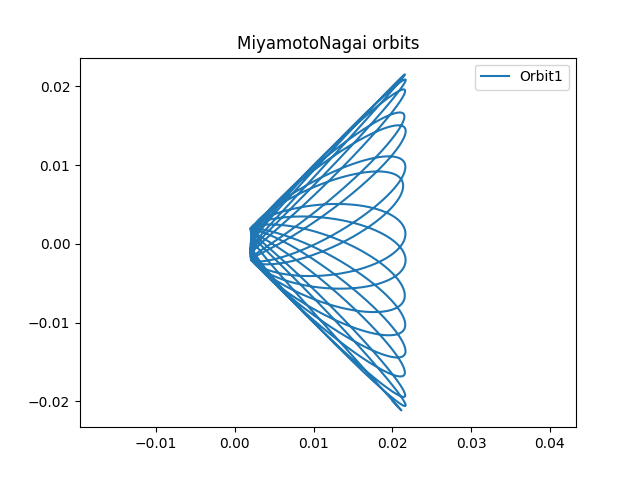
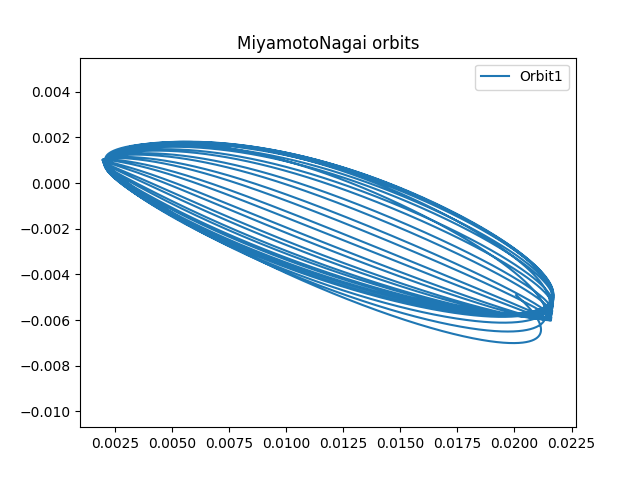
Fix Miyamoto symplectic plot

diff --git a/code/spheroidMiyamoto.py b/code/spheroidMiyamoto.py
@@ -158,7 +158,7 @@ for selectedPotential,selectedTime,selectedTrajSize,selectedTitle,selectedFilena
     result2 = selectedPotential[2].integrate_orbit(starting_points[2].T, dt=selectedTime[2]/selectedTrajSize[2], n_steps=selectedTrajSize[2],
                                         Integrator=selectedIntegrator[2],cython_if_possible=True)
 
-    plt.plot(np.sqrt(np.add(np.square(result.x.to_value()[1:1000000]),np.square(result.y.to_value()[1:1000000]))), result.y.to_value()[1:1000000], label="Orbit1")
+    plt.plot(np.sqrt(np.add(np.square(result.x.to_value()[1:1000000]),np.square(result.y.to_value()[1:1000000]))), result.z.to_value()[1:1000000], label="Orbit1")
     plt.legend()
     plt.title(selectedTitle[0])
     plt.axis('equal')
@@ -168,7 +168,7 @@ for selectedPotential,selectedTime,selectedTrajSize,selectedTitle,selectedFilena
     plt.clf()
     gc.collect()
 
-    plt.plot(np.sqrt(np.add(np.square(result1.x.to_value()[1:1000000]),np.square(result1.y.to_value()[1:1000000]))), result1.y.to_value()[1:1000000], label="Orbit2")
+    plt.plot(np.sqrt(np.add(np.square(result1.x.to_value()[1:1000000]),np.square(result1.y.to_value()[1:1000000]))), result1.z.to_value()[1:1000000], label="Orbit2")
     plt.legend()
     plt.title(selectedTitle[1])
     plt.axis('equal')
@@ -178,7 +178,7 @@ for selectedPotential,selectedTime,selectedTrajSize,selectedTitle,selectedFilena
     plt.clf()
     gc.collect()
 
-    plt.plot(np.sqrt(np.add(np.square(result2.x.to_value()),np.square(result2.y.to_value()))), result2.y.to_value(), label="Orbit3")
+    plt.plot(np.sqrt(np.add(np.square(result2.x.to_value()),np.square(result2.y.to_value()))), result2.z.to_value(), label="Orbit3")
     plt.legend()
     plt.title(selectedTitle[2])
     plt.axis('equal')
